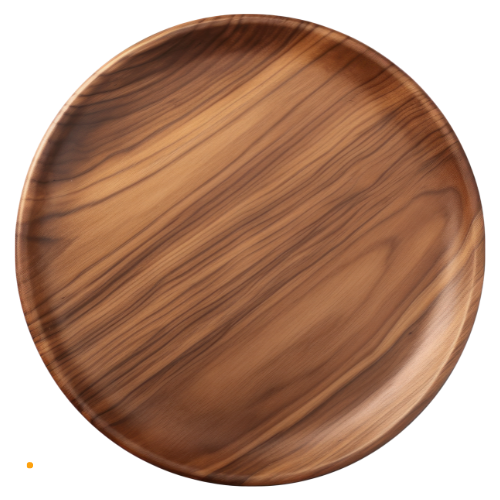
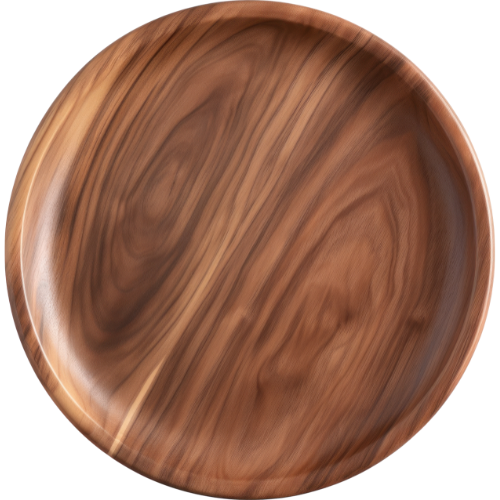
init

diff --git a/components/PlayerArea.js b/components/PlayerArea.js
@@ -178,7 +178,7 @@ const AnimatedStick = ({ type, startPosition, endPosition, delay, duration }) =>
     );
 };
 
-// Add new animation for the winning icon
+// Update the WinningIconAnimation component
 const WinningIconAnimation = ({ iconType, player, onAnimationComplete }) => {
   const scaleAnim = useRef(new Animated.Value(0)).current;
   const positionAnim = useRef(new Animated.Value(0)).current;
@@ -239,38 +239,49 @@ const WinningIconAnimation = ({ iconType, player, onAnimationComplete }) => {
   const translateY = positionAnim.interpolate({
     inputRange: [0, 1, 2],
     outputRange: [
-      player === 'player1' ? 200 : -200, // Start position
-      0, // Center position
-      player === 'player1' ? -200 : 200, // End position (personal pile)
+      player === 'player1' ? 150 : -150,  // Reduced distance from center
+      0,                                  // Center position
+      player === 'player1' ? -150 : 150   // Reduced distance to personal pile
     ],
   });
 
   return (
-    <Animated.View
-      style={[
-        styles.winningIconContainer,
-        {
-          transform: [
-            { scale: scaleAnim },
-            { translateY },
-          ],
-        },
-      ]}
-    >
-      <Animated.View
-        style={[
-          styles.winningIconGlow,
-          {
-            opacity: glowAnim,
-          },
-        ]}
-      />
-      <Image
-        source={icons[iconType]}
-        style={styles.winningIcon}
-        resizeMode="contain"
-      />
-    </Animated.View>
+    <View style={styles.winningAnimationContainer}>
+      <View style={[
+        styles.darkOverlay,
+        { transform: [{ translateY: player === 'player2' ? -100 : 100 }] }
+      ]}>
+        <Animated.View
+          style={[
+            styles.winningIconContainer,
+            {
+              transform: [
+                { scale: scaleAnim },
+                { translateY },
+                { rotate: player === 'player2' ? '180deg' : '0deg' }
+              ],
+              opacity: glowAnim,
+            },
+          ]}
+        >
+          <Animated.View style={styles.winningIconGlow} />
+          <Image
+            source={icons[iconType]}
+            style={styles.winningIcon}
+            resizeMode="contain"
+          />
+          <Animated.Text 
+            style={[
+              styles.waltesText,
+              player === 'player2' ? styles.waltesTextPlayer2 : null,
+              { transform: [{ rotate: player === 'player2' ? '180deg' : '180deg' }] }
+            ]}
+          >
+            Waltes!
+          </Animated.Text>
+        </Animated.View>
+      </View>
+    </View>
   );
 };
 
@@ -663,10 +674,17 @@ const PlayerArea = ({
                         player={player}
                         onAnimationComplete={() => setShowWinningAnimation(false)}
                     />
-                    <Animated.Text style={[styles.waltesText, {
-                        opacity: waltesTextAnim,
-                        transform: [{ scale: waltesTextAnim }],
-                    }]}>
+                    <Animated.Text style={[
+                        styles.waltesText,
+                        player === 'player2' && styles.waltesTextPlayer2,
+                        {
+                            opacity: waltesTextAnim,
+                            transform: [
+                                { scale: waltesTextAnim },
+                                ...(player === 'player2' ? [{ rotate: '180deg' }] : [])
+                            ],
+                        }
+                    ]}>
                         Waltes!
                     </Animated.Text>
                 </>

diff --git a/components/PlayerAreaStyles.js b/components/PlayerAreaStyles.js
@@ -12,13 +12,14 @@ const styles = StyleSheet.create({
         paddingBottom: 0,
     },
     player1Area: {
-        paddingBottom: 190,
-        top: -20,
+        paddingBottom: 150,
+        top: 15,
         alignItems: 'center',
         justifyContent: 'flex-start',
     },
     player2Area: {
         bottom: 0,
+        paddingTop: 15,
         alignItems: 'center',
         justifyContent: 'flex-end',
     },
@@ -27,8 +28,8 @@ const styles = StyleSheet.create({
         flexDirection: 'column',
         alignItems: 'center',
         justifyContent: 'flex-end',
-        paddingBottom: 30,
-        paddingTop: 30,
+        paddingBottom: 15,
+        paddingTop: 15,
     },
     generalPile: {
         flexDirection: 'column',
@@ -44,8 +45,8 @@ const styles = StyleSheet.create({
         alignItems: 'center',
         opacity: 1,
         backgroundColor: 'rgba(0, 0, 0, 0.7)',
-        paddingVertical: 10,
-        borderRadius: 15, // Add this to round the container
+        paddingVertical: 8,
+        borderRadius: 15,
     },
     generalPileTitle: {
         backgroundColor: "transparent",
@@ -64,15 +65,15 @@ const styles = StyleSheet.create({
         flexDirection: 'column',
         justifyContent: 'center',
         width: '100%',
-        marginBottom: -50,
-        paddingBottom: 50,
+        marginBottom: -30,
+        paddingBottom: 30,
     },
     personalPileContainer: {
         flexDirection: 'row',
         justifyContent: 'center',
         alignItems: 'center',
         position: 'relative',
-        paddingVertical: 10,
+        paddingVertical: 8,
     },
     personalPileTitle: {
         backgroundColor: 'transparent', // Remove background color
@@ -228,51 +229,34 @@ const styles = StyleSheet.create({
         marginLeft: 5,
     },
 
-    darkOverlay: {
-        ...StyleSheet.absoluteFillObject,
-        backgroundColor: 'rgba(0, 0, 0, 0.7)',
+    winningAnimationContainer: {
+        position: 'absolute',
+        top: 0,
+        left: 0,
+        right: 0,
+        bottom: 0,
+        alignItems: 'center',
+        justifyContent: 'center',
         zIndex: 1000000,
     },
 
-    winningIconContainer: {
-        position: 'absolute',
-        left: 0,
-        right: 0,
-        alignItems: 'center',
-        justifyContent: 'center',
-        zIndex: 1000001,
-    },
-
-    winningIcon: {
-        width: 120,
-        height: 120,
-    },
-
-    winningIconGlow: {
-        position: 'absolute',
-        width: 160,
-        height: 160,
-        borderRadius: 80,
-        backgroundColor: 'rgba(255, 215, 0, 0.3)',
-        shadowColor: '#FFD700',
-        shadowOffset: { width: 0, height: 0 },
-        shadowOpacity: 1,
-        shadowRadius: 20,
-        elevation: 10,
-    },
-
     waltesText: {
-        fontSize: 40,
         position: 'absolute',
-        alignSelf: 'center',
-        zIndex: 1000002,
+        bottom: -50,
+        fontSize: 32,
         fontWeight: 'bold',
         color: '#FFD700',
         textAlign: 'center',
         textShadowColor: 'rgba(0, 0, 0, 0.75)',
         textShadowOffset: { width: 2, height: 2 },
         textShadowRadius: 3,
-        fontFamily: 'Impact, Haettenschweiler, Franklin Gothic Bold, Charcoal, Helvetica Inserat, Bitstream Vera Sans Bold, Arial Black, sans serif',
+        width: 200,
+        left: -60,
+    },
+
+    waltesTextPlayer2: {
+        bottom: 50,
+        transform: [{ rotate: '180deg' }], // Fixed rotation for player 2
     },
 });
 

diff --git a/components/WaltesBoard.js b/components/WaltesBoard.js
@@ -42,7 +42,7 @@ const bowlSize = getBowlSize();
 const getVerticalOffset = () => {
     const playerAreaHeight = screenHeight * 0.27;
     const availableMiddleSpace = screenHeight - (playerAreaHeight * 2);
-    return ((availableMiddleSpace - bowlSize) / 2) - (screenHeight * 0.025);
+    return ((availableMiddleSpace - bowlSize) / 2) - (screenHeight * 0.025); // Reduced from 0.035 to 0.025 for better centering
 };
 
 const verticalOffset = getVerticalOffset();
